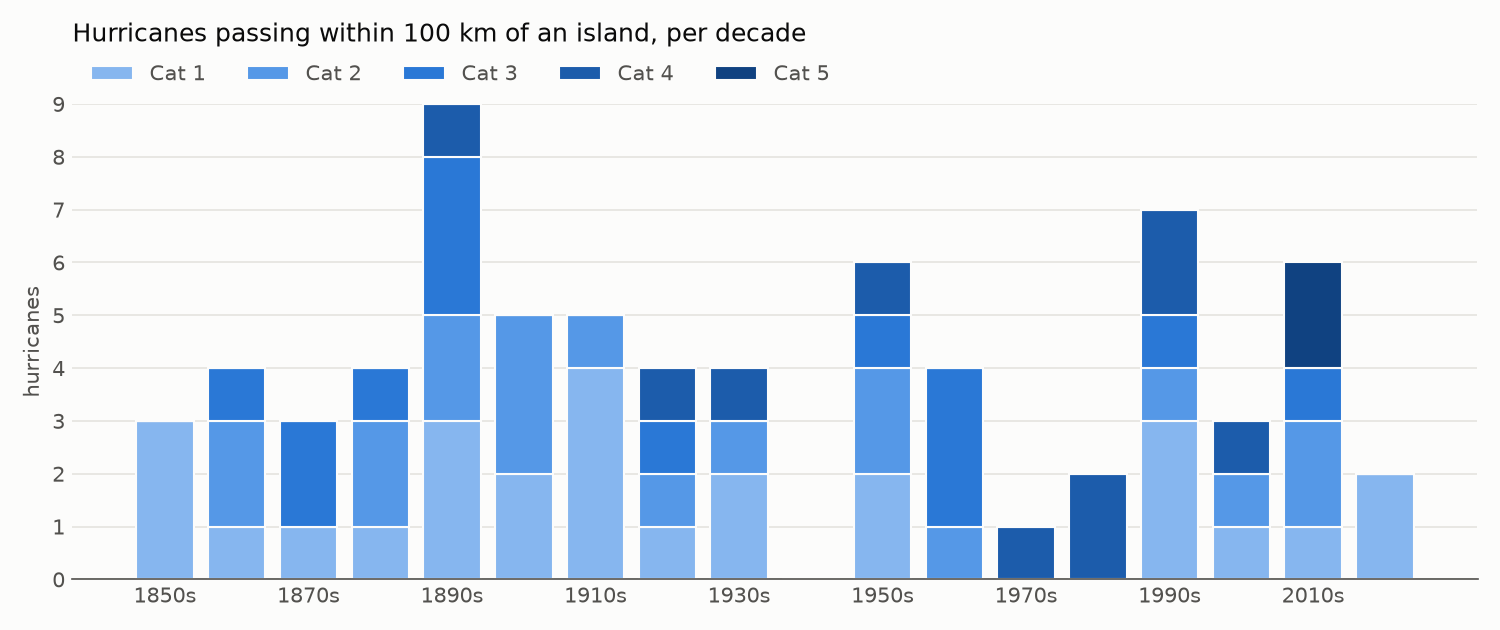
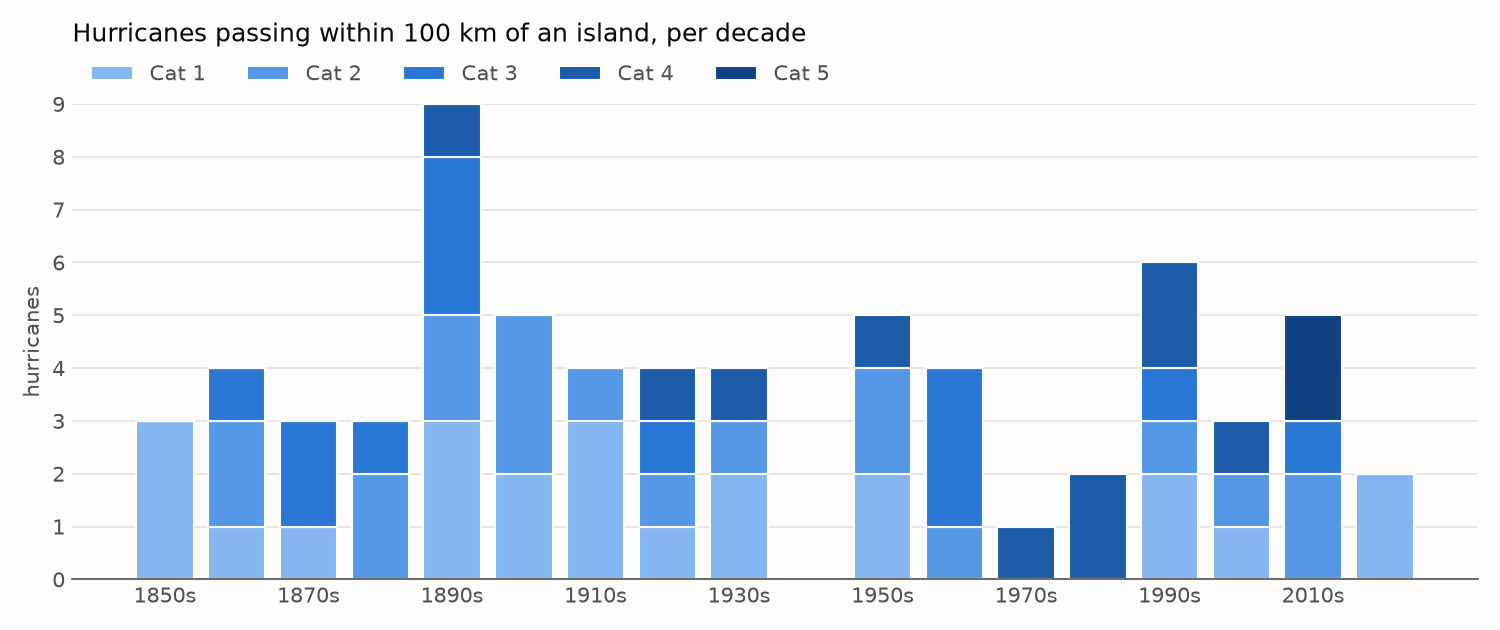
Fix the final review findings
- keep the current season's provisional tracks (2026 was missing)
- rebuild stg_tracks whole: NOAA revises past seasons
- reload the last ten days of weather, aligned with the dbt merge
- run dbt unit tests on empty tables in a ci dataset, skip models whose
  parents a pull request adds in the cost check
- count each storm once in the per-decade chart

diff --git a/tests/test_cost_check.py b/tests/test_cost_check.py
@@ -7,6 +7,7 @@ from pathlib import Path
 from unittest.mock import MagicMock
 
 import pytest
+from google.api_core.exceptions import NotFound
 from google.cloud import bigquery
 
 from hurricane_loaders.cost_check import check, main
@@ -47,3 +48,26 @@ def test_main_fails_when_a_model_is_over_budget(
     with pytest.raises(SystemExit) as exit_info:
         main([str(manifest(tmp_path)), "--budget-mb", "200"])
     assert exit_info.value.code == 1
+
+
+def test_models_whose_parents_are_not_built_yet_are_skipped(tmp_path: Path) -> None:
+    """A pull request that adds a model: its parent tables exist only after the merge, so
+    BigQuery cannot plan it yet. That is not a cost problem."""
+    bq = MagicMock(spec=bigquery.Client)
+
+    def dry_run(sql: str, job_config: bigquery.QueryJobConfig) -> MagicMock:
+        if sql == "select 2":
+            raise NotFound("Table antilles-hurricanes:marts.new_parent was not found")
+        return MagicMock(total_bytes_processed=10_000_000)
+
+    bq.query.side_effect = dry_run
+    assert check(manifest(tmp_path), bq, 200_000_000) == []
+
+
+def test_nodes_without_compiled_code_are_skipped(tmp_path: Path) -> None:
+    path = manifest(tmp_path)
+    data = json.loads(path.read_text())
+    del data["nodes"]["model.p.big"]["compiled_code"]
+    path.write_text(json.dumps(data))
+    bq = client({"select 1": 10_000_000})
+    assert check(path, bq, 200_000_000) == []

diff --git a/src/hurricane_loaders/cost_check.py b/src/hurricane_loaders/cost_check.py
@@ -13,6 +13,7 @@ import os
 import sys
 from pathlib import Path
 
+from google.api_core.exceptions import NotFound
 from google.cloud import bigquery
 
 
@@ -21,12 +22,16 @@ def check(manifest: Path, bq: bigquery.Client, budget_bytes: int) -> list[tuple[
     nodes = json.loads(manifest.read_text())["nodes"].values()
     over = []
     for node in nodes:
-        if node["resource_type"] != "model":
+        if node["resource_type"] != "model" or "compiled_code" not in node:
             continue
-        job = bq.query(
-            node["compiled_code"],
-            job_config=bigquery.QueryJobConfig(dry_run=True, use_query_cache=False),
-        )
+        try:
+            job = bq.query(
+                node["compiled_code"],
+                job_config=bigquery.QueryJobConfig(dry_run=True, use_query_cache=False),
+            )
+        except NotFound as error:  # a parent this pull request adds: built after the merge
+            print(f"{node['name']}: skipped, {error.message}")
+            continue
         scanned = job.total_bytes_processed or 0
         print(f"{node['name']}: {scanned / 1e6:.1f} MB")
         if scanned > budget_bytes:

diff --git a/src/hurricane_loaders/tracks.py b/src/hurricane_loaders/tracks.py
@@ -21,6 +21,9 @@ IBTRACS_URL = (
     "/v04r01/access/csv/ibtracs.NA.list.v04r01.csv"
 )
 
+# Reviewed tracks, and the current season's storms before NOAA's post-season review.
+TRACK_TYPES = {"main", "PROVISIONAL"}
+
 SCHEMA = [
     bigquery.SchemaField("sid", "STRING", mode="REQUIRED"),
     bigquery.SchemaField("name", "STRING"),
@@ -50,12 +53,12 @@ def _int(text: str | None) -> int | None:
 
 
 def parse_tracks(lines: Iterable[str]) -> Iterator[dict[str, Any]]:
-    """Main-track fixes of North Atlantic storms. Spur tracks (alternative positions of a
+    """Main and provisional fixes of North Atlantic storms. Spur tracks (alternative positions of a
     storm's early or late life) are left out: they would duplicate fixes."""
     reader = csv.DictReader(lines)
     next(reader)  # the units row
     for row in reader:
-        if row["TRACK_TYPE"].strip() != "main" or row["BASIN"].strip() != "NA":
+        if row["TRACK_TYPE"].strip() not in TRACK_TYPES or row["BASIN"].strip() != "NA":
             continue
         yield {
             "sid": row["SID"],

diff --git a/src/hurricane_loaders/weather.py b/src/hurricane_loaders/weather.py
@@ -21,6 +21,7 @@ FIRST_DAY = date(1940, 1, 1)
 DAILY = ("precipitation_sum", "wind_speed_10m_max", "wind_gusts_10m_max")
 RATE_LIMIT_WAIT_S = 61
 MAX_ATTEMPTS = 6
+RELOAD_DAYS = 10
 
 SCHEMA = [
     bigquery.SchemaField("island", "STRING", mode="REQUIRED"),
@@ -32,9 +33,10 @@ SCHEMA = [
 
 
 def weather_window(latest: date | None, today: date) -> tuple[date, date]:
-    """From the day after the latest one loaded (or 1940) to a week ago: the reanalysis
-    reaches the archive with a few days' delay."""
-    start = FIRST_DAY if latest is None else latest + timedelta(days=1)
+    """From ten days before the latest one loaded (or 1940) to a week ago: the reanalysis
+    reaches the archive with a few days' delay and can fill or revise its latest days, so
+    they are loaded again (stg_island_weather merges the same ten days)."""
+    start = FIRST_DAY if latest is None else latest - timedelta(days=RELOAD_DAYS)
     return start, today - timedelta(days=7)
 
 

diff --git a/scripts/charts.py b/scripts/charts.py
@@ -30,10 +30,15 @@ def style(ax: plt.Axes) -> None:
 def by_decade(bq: bigquery.Client, project: str) -> None:
     rows = bq.query(
         f"""
-        SELECT decade, category, COUNT(DISTINCT sid) AS storms
-        FROM `{project}.marts.fct_storm_passages`
-        CROSS JOIN UNNEST([DIV(season, 10) * 10]) AS decade
-        WHERE category LIKE 'Cat %'
+        -- Each storm once, at its strongest category near any island ('Cat 1' < 'Cat 5').
+        WITH storms AS (
+            SELECT sid, ANY_VALUE(season) AS season, MAX(category) AS category
+            FROM `{project}.marts.fct_storm_passages`
+            WHERE category LIKE 'Cat %'
+            GROUP BY sid
+        )
+        SELECT DIV(season, 10) * 10 AS decade, category, COUNT(*) AS storms
+        FROM storms
         GROUP BY decade, category
         """,
         job_config=CAP,

diff --git a/tests/test_weather.py b/tests/test_weather.py
@@ -64,10 +64,11 @@ def test_reloading_days_replaces_them() -> None:
     assert load_kwargs["job_config"].write_disposition == bigquery.WriteDisposition.WRITE_APPEND
 
 
-def test_window_starts_after_the_latest_day_and_ends_a_week_ago() -> None:
+def test_window_reloads_the_last_ten_days_and_ends_a_week_ago() -> None:
+    """The archive can fill or revise its latest days after a first load."""
     assert weather_window(None, date(2026, 11, 18)) == (date(1940, 1, 1), date(2026, 11, 11))
     assert weather_window(date(2026, 11, 1), date(2026, 11, 18)) == (
-        date(2026, 11, 2),
+        date(2026, 10, 22),
         date(2026, 11, 11),
     )
 

diff --git a/tests/test_tracks.py b/tests/test_tracks.py
@@ -72,3 +72,11 @@ def test_load_replaces_a_table_partitioned_by_season() -> None:
     assert config.write_disposition == bigquery.WriteDisposition.WRITE_TRUNCATE
     assert config.range_partitioning.field == "season"
     assert config.clustering_fields == ["sid"]
+
+
+def test_provisional_tracks_of_the_current_season_are_kept() -> None:
+    """NOAA marks the current season's storms PROVISIONAL until its post-season review."""
+    rows = list(
+        parse_tracks([HEADER, UNITS, line(**dict(HUGO, SEASON="2026", TRACK_TYPE="PROVISIONAL"))])
+    )
+    assert [r["season"] for r in rows] == [2026]

diff --git a/tests/test_profiles.py b/tests/test_profiles.py
@@ -14,3 +14,9 @@ def test_profiles_cap_bytes_billed() -> None:
     assert outputs
     assert all(o["maximum_bytes_billed"] == 1_000_000_000 for o in outputs.values())
     assert all(o["location"] == "US" for o in outputs.values())
+
+
+def test_pull_requests_have_their_own_dataset() -> None:
+    outputs = yaml.safe_load(PROFILES.read_text())["antilles_hurricanes"]["outputs"]
+    assert outputs["ci"]["dataset"] == "ci"
+    assert outputs["prod"]["dataset"] != "ci"

diff --git a/README.md b/README.md
@@ -26,7 +26,7 @@ NOAA IBTrACS (North Atlantic CSV, ~60 MB) ──┐
                                             ├─ hurricane-load (Python) ─► raw.tracks
 Open-Meteo archive (ERA5, daily, 1940→) ────┘                          ► raw.island_weather
                                                                               │ dbt
-   staging.stg_tracks          (incremental, partitioned by season, clustered by storm)
+   staging.stg_tracks          (table, partitioned by season, clustered by storm)
    staging.stg_island_weather  (incremental, partitioned by month, clustered by island)
    staging.islands             (seed: the six island points)
            │
@@ -47,7 +47,8 @@ GitHub Actions runs it all: `ci.yml` on every pull request, `daily.yml` at 06:00
   NOAA NCEI: every North Atlantic storm since 1851, a position every 3 or 6 hours. The
   BigQuery public copy (`bigquery-public-data.noaa_hurricanes`) stops at the 2023 season,
   so the official file is loaded instead. Wind and pressure come from the US agency (the
-  reference in this basin), the WMO value filling the gaps; spur tracks are left out.
+  reference in this basin), the WMO value filling the gaps; spur tracks are left out, and
+  the current season's storms are kept while NOAA still marks them provisional.
 - **[Open-Meteo historical weather](https://open-meteo.com/en/docs/historical-weather-api)**
   (ERA5 reanalysis, CC BY 4.0): daily rain, maximum wind and gusts at each island's point,
   in UTC days like the track positions. A reanalysis smooths extremes: it shows that a day
@@ -55,12 +56,14 @@ GitHub Actions runs it all: `ci.yml` on every pull request, `daily.yml` at 06:00
 
 ## Cost control
 
-BigQuery bills by bytes read. The whole project reads a few hundred megabytes a month, out
+BigQuery bills by bytes read. The whole project bills a few gigabytes a month, out
 of the free terabyte, and four guards keep it there:
 
 1. **Partitioning and clustering.** Tracks are partitioned by season and clustered by
-   storm, weather by month and clustered by island: the daily run rewrites only the
-   current and previous seasons and the last days of weather.
+   storm, weather by month and clustered by island: models that filter on a season, a
+   storm, a month or an island read only those blocks. Weather is incremental (the last
+   ten days are reloaded and merged, the archive revises them); tracks are rebuilt whole
+   every day, because NOAA revises past seasons and the whole history is 8 MB.
 2. **A cap on every query.** The dbt profile sets `maximum_bytes_billed` to 1 GB (a test
    checks it): a query that would read more fails instead of billing.
 3. **A dry run in CI.** Every pull request compiles the models and dry-runs each one (a
@@ -73,12 +76,12 @@ Measured on the real project (`INFORMATION_SCHEMA.JOBS_BY_PROJECT`):
 
 | Run | Queries | Read | Billed |
 | --- | ---: | ---: | ---: |
-| First full build (all history) | 69 | 82 MB | 459 MB |
-| Daily incremental build | 29 | 24 MB | 252 MB |
+| First build (all history) | 69 | 82 MB | 459 MB |
+| Daily build | 26 | 33 MB | 189 MB |
 | Largest model, dry run | 1 | 10 MB | 0 |
 
 BigQuery bills at least 10 MB per query, which is why billed exceeds read. Thirty daily
-runs come to about 7.5 GB a month, under 1 % of the free terabyte; storage (under 50 MB)
+runs come to under 6 GB a month, under 1 % of the free terabyte; storage (under 50 MB)
 stays inside the free 10 GB.
 
 ## Keyless CI
@@ -88,7 +91,8 @@ and Google's Workload Identity Federation exchanges it for short-lived credentia
 `dbt-runner` service account, but only for workflows of this repository (Terraform pins
 the `repository` claim). `dbt-runner` can run BigQuery jobs and write the four datasets,
 nothing else. Pull requests from forks skip the BigQuery steps: they never see the
-identity.
+identity. Pull requests run the dbt unit tests on empty tables built in a `ci`
+dataset whose tables expire after a day, so a pull request never touches the real tables.
 
 The GCP side (datasets, service account, federation, budget) is Terraform in
 [`infra/`](infra/README.md).
